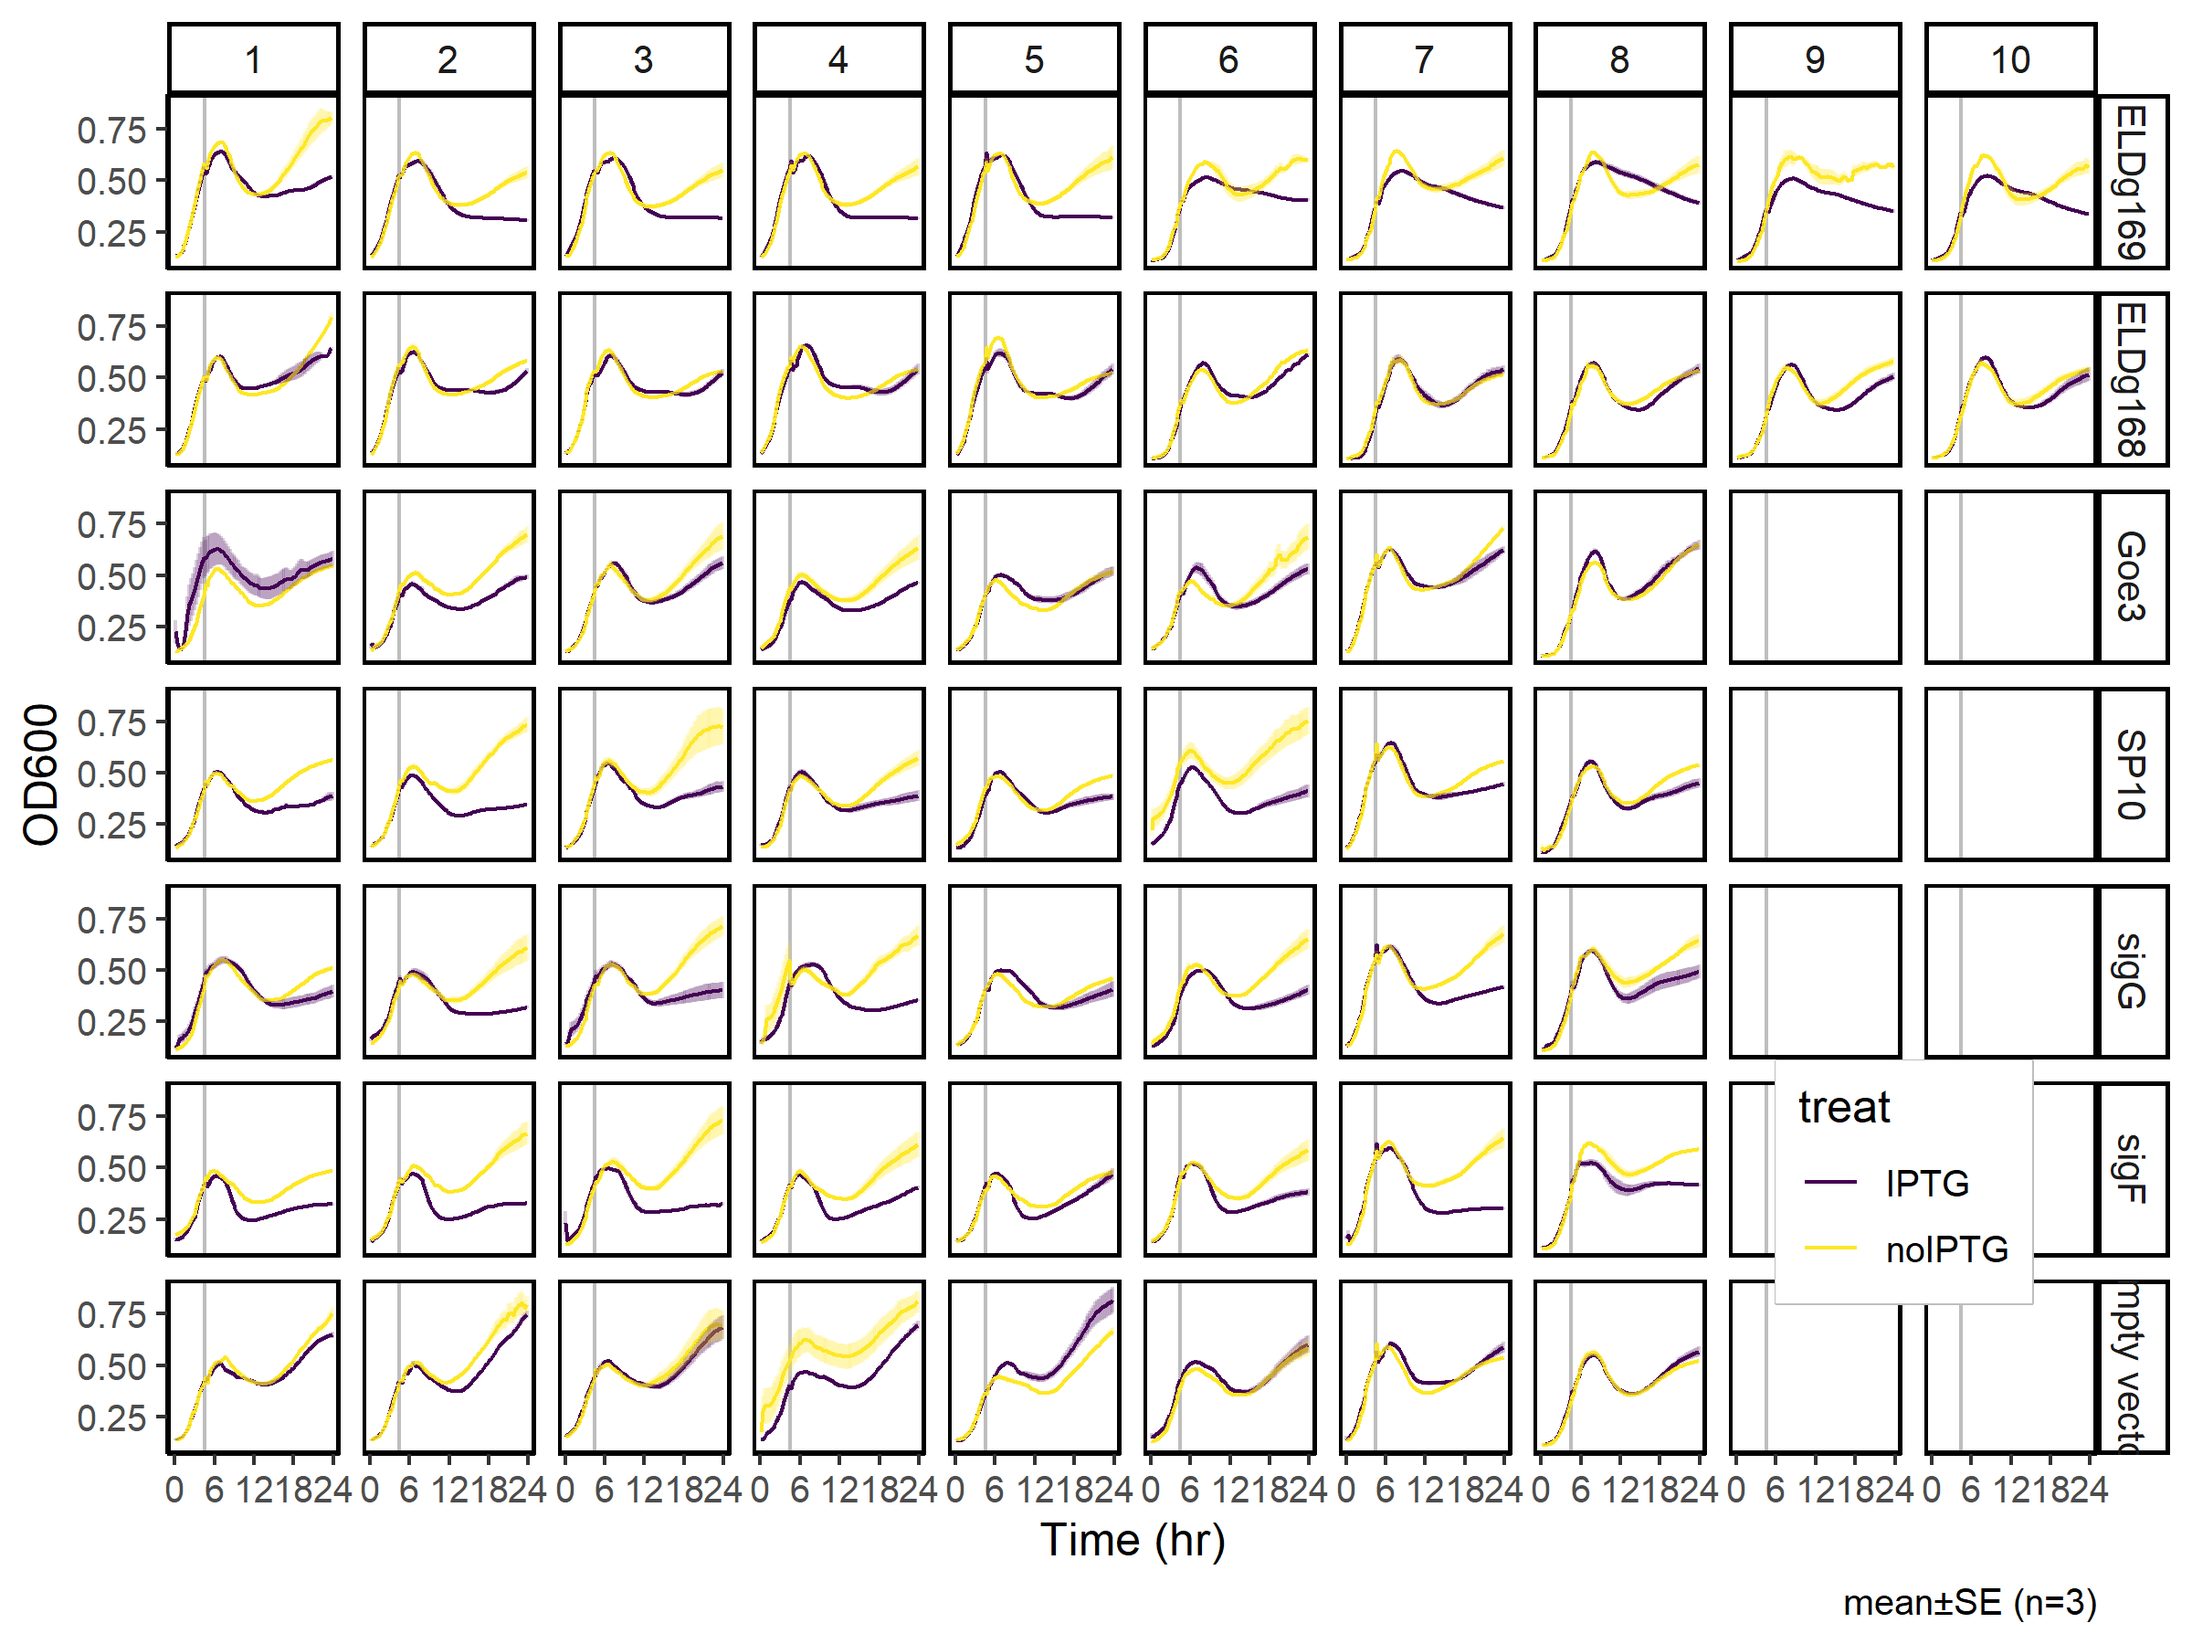
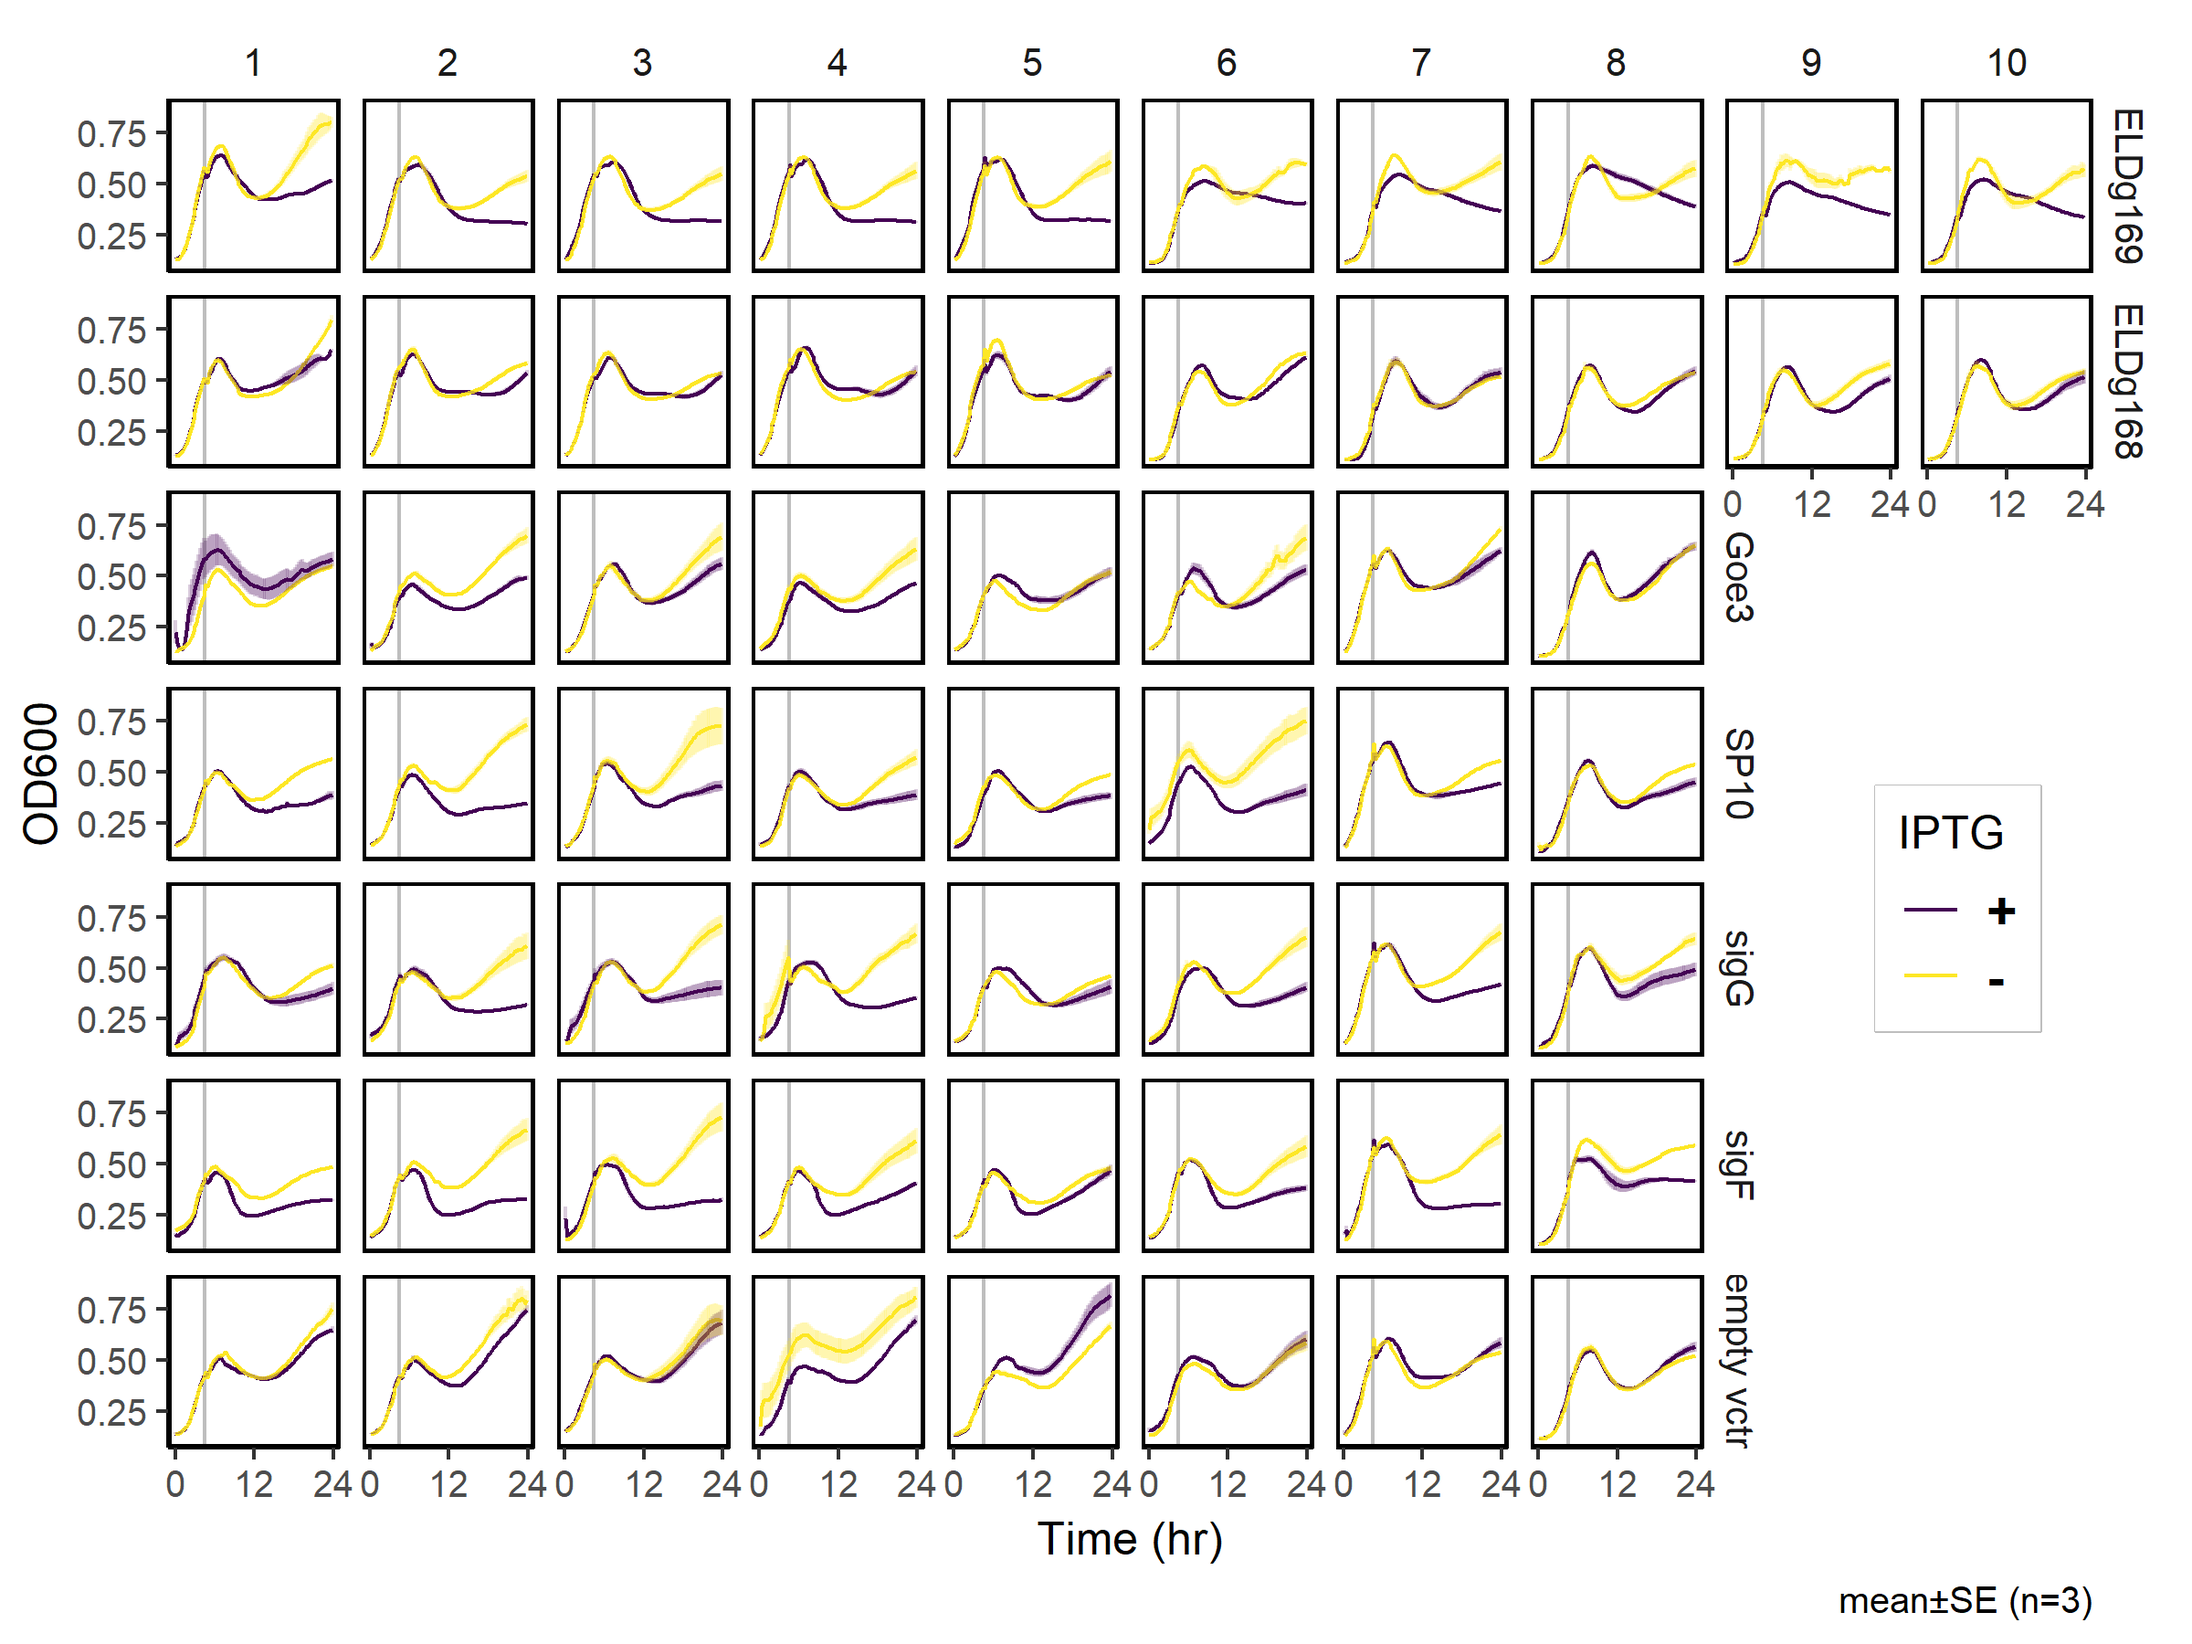
remove empty panels

diff --git a/src/Growth_Curve.md b/src/Growth_Curve.md
@@ -115,8 +115,8 @@ sum_colonies <-
   mutate(col.id = paste(exp, strain, treat,colony), sep ="_") %>% 
   # arrang labels
   mutate(strain=str_replace(strain,"^g","ELDg"))%>%
-   mutate(strain = str_replace(strain, "pDR110", "empty vector")) %>% 
-   mutate(strain = fct_relevel(strain,"empty vector","sigF", "sigG","SP10", "Goe3","ELDg168", "ELDg169"))
+   mutate(strain = str_replace(strain, "pDR110", "empty vctr")) %>% 
+   mutate(strain = fct_relevel(strain,"empty vctr","sigF", "sigG","SP10", "Goe3","ELDg168", "ELDg169"))
 
 p <- sum_colonies%>%
   # filter(Time<5)%>%
@@ -157,31 +157,68 @@ col_numbers <-
 p <- sum_colonies %>% 
   mutate(col.id2 = paste(exp, strain, colony), sep ="_") %>%
   left_join(., col_numbers, by = "col.id2") %>% 
+  mutate(IPTG = if_else(treat=="IPTG", "+","-") %>% fct_rev()) %>% 
   
   ggplot(aes(x=Time, y=m))+
   geom_vline(xintercept = 4.5, color="grey")+
-  geom_line(aes(group = col.id, color=treat), size=.5)+
-  geom_errorbar(aes(ymin = m-v, ymax = m+v,  color=treat), alpha = 0.2)+
+  geom_line(aes(group = col.id, color=IPTG), size=.5)+
+  geom_errorbar(aes(ymin = m-v, ymax = m+v,  color=IPTG), alpha = 0.2)+
   facet_grid(fct_rev(strain) ~ n.col)+
   
   ylab("OD600")+
   xlab("Time (hr)")+
-  scale_x_continuous(breaks = seq(0,24,6))+
+  scale_x_continuous(breaks = c(0,12,24))+
   labs(caption = "mean±SE (n=3)")+
 
   theme_classic(base_size = 12)+
   panel_border(color = "black")+
   scale_colour_viridis_d()+
-  theme(legend.position = c(.9, .2), 
+  theme(legend.position = c(.93, .4), 
         legend.box.background = element_rect(colour = "grey"),
-        strip.text = element_text(size = 10))
+        legend.text = element_text(size=14, face = "bold"),
+        strip.text = element_text(size = 10),
+        panel.grid.major = element_blank(),
+        panel.grid.minor = element_blank(),
+        strip.background = element_blank())
   
-ggsave(here("fig/induction_growth_OD_colonies.png"),p,
-       width = 8, height = 6)
-p  
+# ggsave(here("fig/induction_growth_OD_colonies.png"),p,
+#        width = 8, height = 6)
+# p  
 ```
 
-![](Growth_Curve_files/figure-gfm/plot%20colonY%20panels-1.png)<!-- -->
+``` r
+#https://stackoverflow.com/questions/49521848/remove-unused-facet-combinations-in-2-way-facet-grid
+library(grid)
+library(gtable)
+
+# Turn your ggplot2 plot into a grob.
+grob <- ggplotGrob(p)
+# Working out which facets to remove, and which axes to move where depends on the grid-structure of your grob. gtable_show_layout(grob) gives a visual representation of your grid structure, where numbers like (7, 4) denote a panel in row 7 and column 4.
+# gtable_show_layout(grob, cell.label = T)
+# grob$layout$name
+
+# Remove facets
+rmv.panels <- paste0("panel-", rep(3:7,each = 2),"-", 9:10) #%>% paste0(.,9:10)
+idx <- which(grob$layout$name %in% rmv.panels)
+for (i in idx) grob$grobs[[i]] <- nullGrob()
+
+# Move x axes up
+# axis-b-9 and axis-b-10 needs to move up 10 rows (5 rows and 5 gaps)
+idx <- which(grob$layout$name %in% c("axis-b-9", "axis-b-10"))
+grob$layout[idx, c("t", "b")] <- grob$layout[idx, c("t", "b")] - 10
+
+# Move panel strips left 
+idx <- which(grob$layout$name %in% paste0("strip-r-", 3:7))
+grob$layout[idx, "r"] <- grob$layout[idx, "r"] - 8
+
+# Plot
+ggsave(here("fig/induction_growth_OD_colonies.png"),grob,
+       width = 8, height = 6)
+
+grid.draw(grob)
+```
+
+![](Growth_Curve_files/figure-gfm/empty%20panels-1.png)<!-- -->
 
 ## OD at innoculation
 
